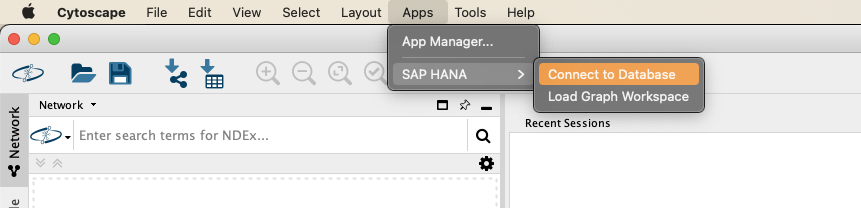
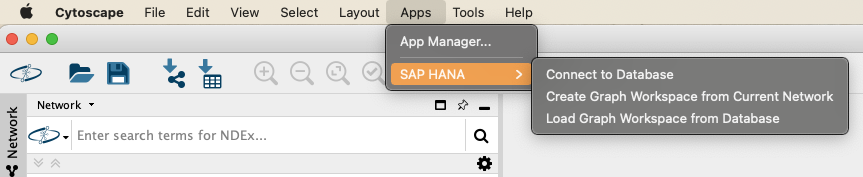
Add description how to upload data to HANA

diff --git a/README.md b/README.md
@@ -10,7 +10,8 @@ The plugin is tested to work with [Cytoscape 3.8.2](https://cytoscape.org/), [Sa
 ## Functionalities
 The current feature scope comprises:
 - Establish connection to SAP HANA (Cloud)
-- Load all nodes and edges of an existing (homogeneous) graph workspace
+- Upload a Network to SAP HANA (Cloud)
+- Download an existing (homogeneous) graph workspace to Cytoscape
 
 ## Installation
 ### Download
@@ -43,8 +44,18 @@ You can check the task history of Cytoscape to verify, that the connection has b
 
 ![Task history after successful connection](doc/img/task_history_connection.png)
 
-### Load an existing Graph Workspace
-To load a graph workspace, you first need to connect to your instance of SAP HANA as described above. When choosing to load graph workspace, the list will already be pre-populated with all graph workspaces, that have been found on the respective system.
+### Upload a Network to SAP HANA
+To upload a network, you first need to connect to your instance of SAP HANA as described above. Also, you need to have at least one network existing in Cytoscape.
+
+> If you need a dataset to start testing, you can use one of Cytoscapes samples, that are available on the starter panel. Following screenshots will use the `disease` dataset from the sample session `Styles Demo`.
+![Cytoscape Sample Sessions](doc/img/cytoscape_sample_sessions.png)
+
+To upload a network to SAP HANA, choose the respective entry in the apps menu.
+
+![Cytoscape Sample Sessions](doc/img/create_new_workspace_dialog.png)
+
+### Download an existing Graph Workspace
+To download a graph workspace, you first need to connect to your instance of SAP HANA as described above. When choosing to load graph workspace, the list will already be pre-populated with all graph workspaces, that have been found on the respective system.
 
 ![List of graph workspaces](doc/img/graph_workspace_selection.png)
 
